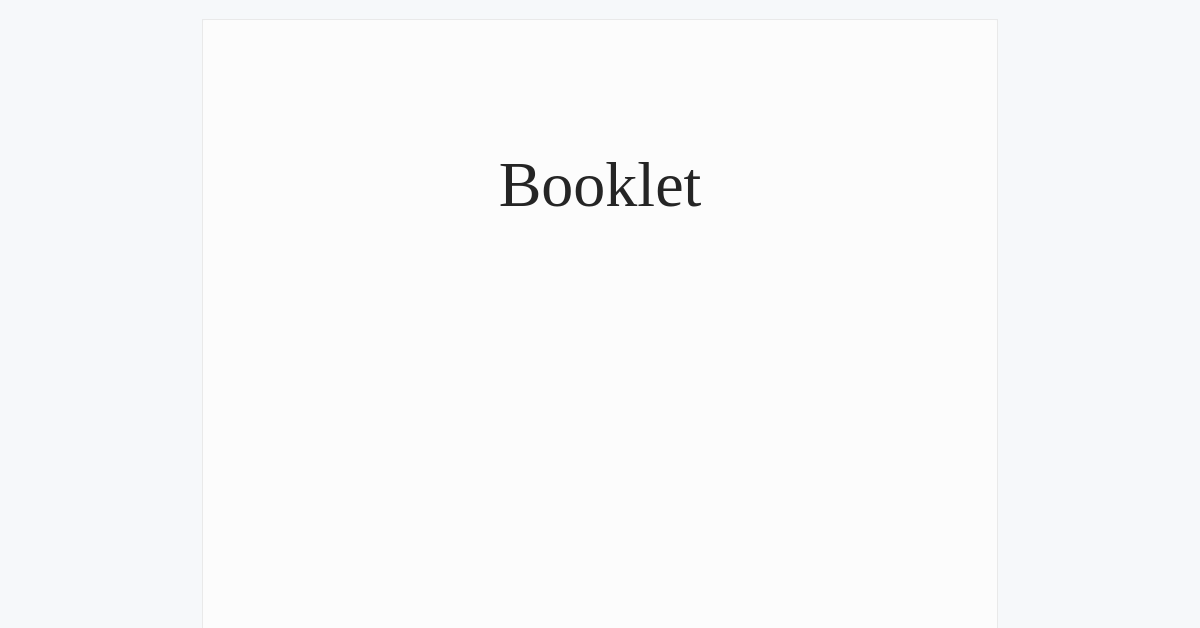
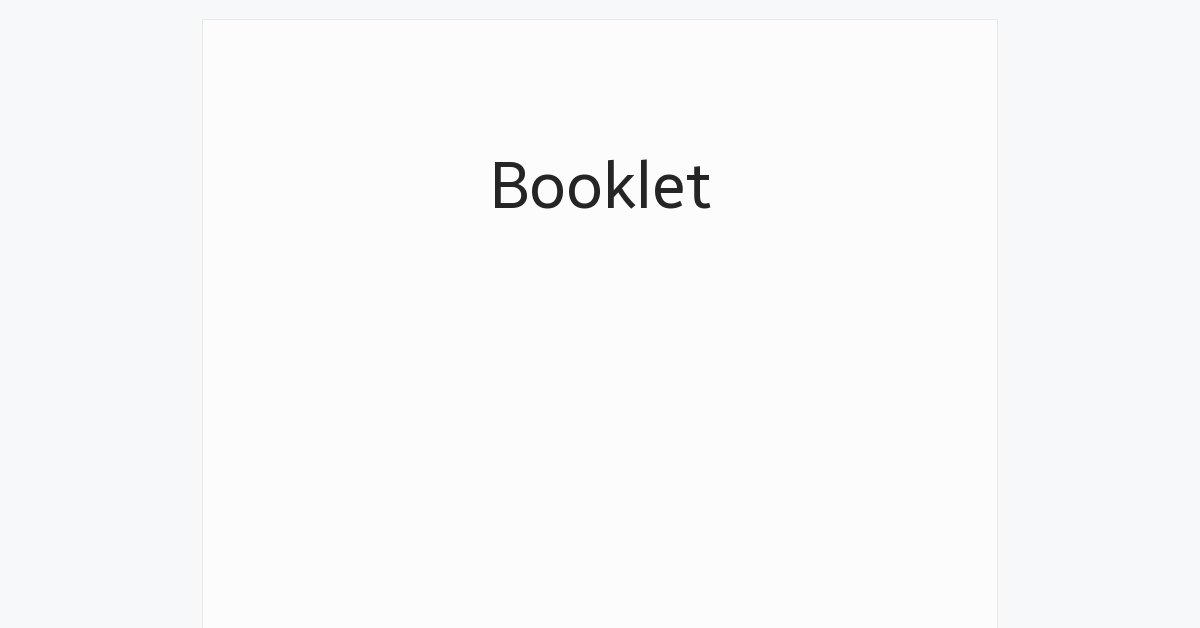
deploy: 678087272de4d779b966f88c9a882faee723de6d

Changed region(s): [[0.4008, 0.242, 0.5858, 0.3328]]

diff --git a/assets/fonts/BreezeSans-Condensed.css b/assets/fonts/BreezeSans-Condensed.css
@@ -1,39 +1,39 @@
 @font-face {
-  font-family: 'BreezeSans Condensed';
+  font-family: 'Breeze Sans Condensed';
   font-style: normal;
   font-weight: 600;
   font-display: swap;
-  src: url(./BreezeSans-Condensed/BreezeSans-Condensed-Bold.ttf) format('ttf');
+  src: url('./BreezeSans-Condensed/BreezeSans-Condensed-Bold.ttf') format('truetype');
 }
 
 @font-face {
-  font-family: 'BreezeSans Condensed';
+  font-family: 'Breeze Sans Condensed';
   font-style: normal;
   font-weight: 500;
   font-display: swap;
-  src: url(./BreezeSans-Condensed/BreezeSans-Condensed-Medium.ttf) format('ttf');
+  src: url('./BreezeSans-Condensed/BreezeSans-Condensed-Medium.ttf') format('truetype');
 }
 
 @font-face {
-  font-family: 'BreezeSans Condensed';
+  font-family: 'Breeze Sans Condensed';
   font-style: normal;
   font-weight: 400;
   font-display: swap;
-  src: url(./BreezeSans-Condensed/BreezeSans-Condensed-Regular.ttf) format('ttf');
+  src: url('./BreezeSans-Condensed/BreezeSans-Condensed-Regular.ttf') format('truetype');
 }
 
 @font-face {
-  font-family: 'BreezeSans Condensed';
+  font-family: 'Breeze Sans Condensed';
   font-style: normal;
   font-weight: 300;
   font-display: swap;
-  src: url(./BreezeSans-Condensed/BreezeSans-Condensed-Light.ttf) format('ttf');
+  src: url('./BreezeSans-Condensed/BreezeSans-Condensed-Light.ttf') format('truetype');
 }
 
 @font-face {
-  font-family: 'BreezeSans Condensed';
+  font-family: 'Breeze Sans Condensed';
   font-style: normal;
   font-weight: 200;
   font-display: swap;
-  src: url(./BreezeSans-Condensed/BreezeSans-Condensed-Thin.ttf) format('ttf');
+  src: url('./BreezeSans-Condensed/BreezeSans-Condensed-Thin.ttf') format('truetype');
 }

diff --git a/manual/getting-started/index.html b/manual/getting-started/index.html
@@ -1,0 +1,76 @@
+
+    <link href="/booklet/assets/fonts/BreezeSans.css" rel="stylesheet">
+
+    <style>
+      html {
+        font-size: 16px;
+      }
+
+      body, body * {
+        all: unset;
+        box-sizing: border-box;
+      }
+
+      body {
+        display: grid;
+        justify-content: center;
+
+        grid-auto-flow: row;
+        gap: 1.25rem;
+        padding: 1.25rem;
+
+        width: 100%;
+        margin: 0rem 0rem;
+
+        background: #f6f8fa;
+
+        overflow: hidden scroll;
+        overflow: hidden overlay;
+      }
+
+      section {
+        display: grid;
+        grid-auto-flow: column;
+
+        background: #fcfcfc;
+        border-radius: 2px;
+        outline: 1px solid #e9e9e9;
+
+        width: 794px;
+        height: 1123px;
+      }
+
+      @media print {
+        body{
+          gap: 0rem;
+          padding: 0rem;
+          background: transparent;
+        }
+
+        section {
+          background: transparent;
+          border-radius: none;
+          outline: none;
+        }
+      }
+
+      @page {
+        size: 794px 1123px portrait;
+        margin: 0rem 0rem 0rem 0rem;
+      }
+
+      .type.watermark {
+        font-family: 'Breeze Sans';
+        font-size: 4rem;
+        
+        margin: 8rem auto;
+        color: #252525;
+      }
+    </style>
+
+    <section>
+      <h1 class="type watermark">Booklet</h1>
+    </section>
+    <section></section>
+    <section></section>
+  

diff --git a/assets/fonts/BreezeSans.css b/assets/fonts/BreezeSans.css
@@ -1,39 +1,39 @@
 @font-face {
-  font-family: 'BreezeSans';
+  font-family: 'Breeze Sans';
   font-style: normal;
   font-weight: 600;
   font-display: swap;
-  src: url(./BreezeSans/BreezeSans-Bold.ttf) format('ttf');
+  src: url('./BreezeSans/BreezeSans-Bold.ttf') format('truetype');
 }
 
 @font-face {
-  font-family: 'BreezeSans';
+  font-family: 'Breeze Sans';
   font-style: normal;
   font-weight: 500;
   font-display: swap;
-  src: url(./BreezeSans/BreezeSans-Medium.ttf) format('ttf');
+  src: url('./BreezeSans/BreezeSans-Medium.ttf') format('truetype');
 }
 
 @font-face {
-  font-family: 'BreezeSans';
+  font-family: 'Breeze Sans';
   font-style: normal;
   font-weight: 400;
   font-display: swap;
-  src: url(./BreezeSans/BreezeSans-Regular.ttf) format('ttf');
+  src: url('./BreezeSans/BreezeSans-Regular.ttf') format('truetype');
 }
 
 @font-face {
-  font-family: 'BreezeSans';
+  font-family: 'Breeze Sans';
   font-style: normal;
   font-weight: 300;
   font-display: swap;
-  src: url(./BreezeSans/BreezeSans-Light.ttf) format('ttf');
+  src: url('./BreezeSans/BreezeSans-Light.ttf') format('truetype');
 }
 
 @font-face {
-  font-family: 'BreezeSans';
+  font-family: 'Breeze Sans';
   font-style: normal;
   font-weight: 200;
   font-display: swap;
-  src: url(./BreezeSans/BreezeSans-Thin.ttf) format('ttf');
+  src: url('./BreezeSans/BreezeSans-Thin.ttf') format('truetype');
 }
